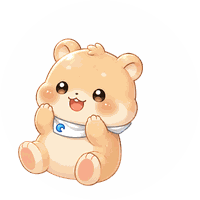
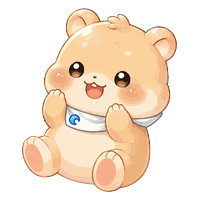
Add files via upload

diff --git a/stamp/index.html b/stamp/index.html
@@ -94,10 +94,10 @@
       border:1.5px solid rgba(190,195,255,.32); display:flex; align-items:center; justify-content:center;
       font-size:11px; font-weight:700; color:rgba(222,224,255,.6); transition:transform var(--transition); }
     .cell .num { opacity:.75; }
-    .cell.stamped { background:rgba(255,255,255,.1); border-color:rgba(190,195,255,.5); }
+    .cell.stamped { background:rgba(255,255,255,.08); border-color:rgba(190,195,255,.5); }
     .cell.stamped .num { display:none; }
-    .cell .sun { width:96%; height:96%; object-fit:contain; border-radius:50%;
-      animation:sunIn .34s cubic-bezier(.34,1.56,.64,1) backwards; filter:drop-shadow(0 0 5px rgba(255,255,255,.35)); }
+    .cell .sun { width:100%; height:100%; object-fit:contain; display:block;
+      animation:sunIn .34s cubic-bezier(.34,1.56,.64,1) backwards; filter:drop-shadow(0 1px 4px rgba(0,0,0,.28)); }
     .cell.next { animation:pulse 1.6s ease-in-out infinite; }
     @keyframes sunIn { from { transform:scale(0) rotate(-25deg); opacity:0; } to { transform:scale(1) rotate(-6deg); opacity:1; } }
     @keyframes pulse { 0%,100%{ box-shadow:0 0 0 0 rgba(255,214,120,.45);} 50%{ box-shadow:0 0 0 7px rgba(255,214,120,0);} }